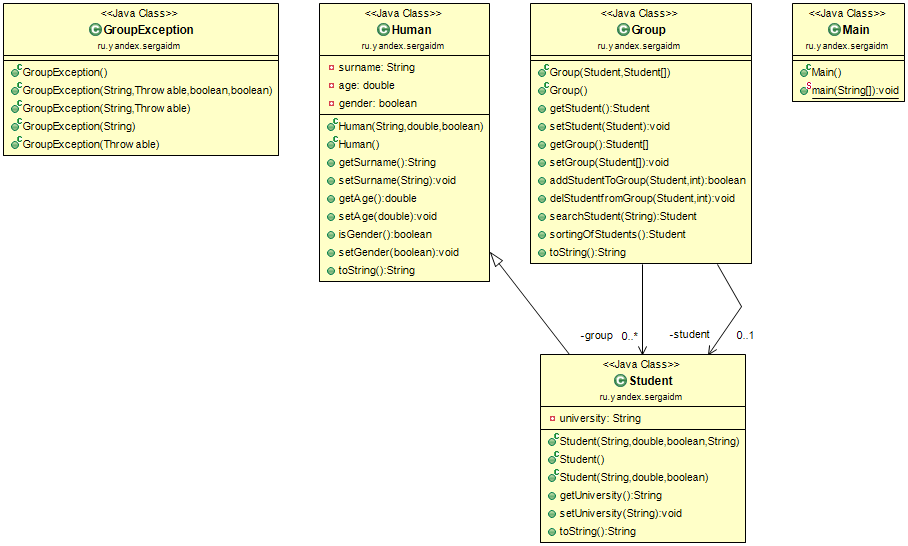
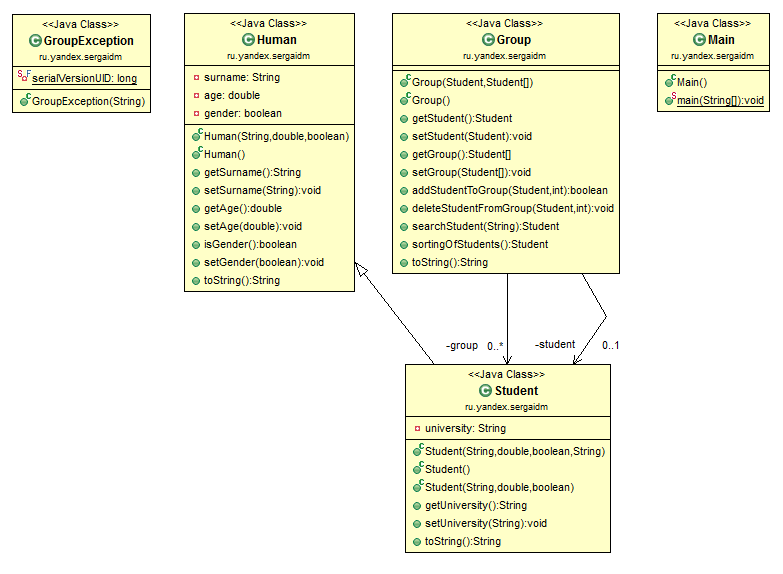
3. Exceptions. Classes "Human", "Student" and "Group"

diff --git a/Program3/src/ru/yandex/sergaidm/Group.java b/Program3/src/ru/yandex/sergaidm/Group.java
@@ -34,36 +34,33 @@ public class Group {
 	}
 
 	public boolean addStudentToGroup(Student student, int place) throws GroupException {
-		boolean r = false;
+		boolean result = false;
 		for (Student anotherStudent : group) {
 			if (place > group.length) {
 				throw new GroupException("In group there are no more free places");
 			} else if (group[place] == null) {
 				group[place] = student;
 				System.out.println("The student is added to " + (place + 1) + " place of the group");
-				return r = true;
+				return result = true;
 			}
 			if (group[place] != null) {
 				System.out.println("Impossible to add student to " + (place + 1) + " place of the group");
 				throw new GroupException("This place of group is taken by another student");
 			}
 		}
-		return r;
+		return result;
 	}
 
-	public void delStudentfromGroup(Student student, int place) throws GroupException {
-
+	public void deleteStudentFromGroup(Student student, int place) throws GroupException {
 		if (place >= 0 & place < group.length) {
 			group[place] = null;
 			System.out.println("The " + (place + 1) + " student is expelled from the group");
 		} else {
 			throw new GroupException("There is no such student in the group");
 		}
-
 	}
 
 	public Student searchStudent(String surname) {
-
 		for (Student student : group) {
 			if (student != null && student.getSurname().equals(surname)) {
 				return student;
@@ -73,19 +70,18 @@ public class Group {
 	}
 
 	public Student sortingOfStudents() {
-
-		Student st = new Student();
+		Student student = new Student();
 		for (int i = 1; i < group.length; i++) {
 			for (int j = group.length - 1; j >= i; j--) {
 				if (group[j - 1] != null && group[j] != null
 						&& group[j - 1].getSurname().compareTo((group[j].getSurname())) > 0) {
-					st = group[j - 1];
+					student = group[j - 1];
 					group[j - 1] = group[j];
-					group[j] = st;
+					group[j] = student;
 				}
 			}
 		}
-		return st;
+		return student;
 	}
 
 	@Override

diff --git a/Program3/src/ru/yandex/sergaidm/Main.java b/Program3/src/ru/yandex/sergaidm/Main.java
@@ -1,12 +1,5 @@
 package ru.yandex.sergaidm;
 
-/*Create a class Human. Create a class Student that extends class Human.
- Create a class Group that contains an array of 10 objects of class Student.
- Create methods for adding, deleting, and searching students by surname.
- If you try to add the eleventh student you must create custom exception class 
- and process it. Determine toString() method for Group class so that it displays 
- a list of students alphabetically.*/
-
 public class Main {
 	public static void main(String[] args) {
 
@@ -51,7 +44,7 @@ public class Main {
 		System.out.println();
 
 		try {
-			gr.delStudentfromGroup(student, 5);
+			gr.deleteStudentFromGroup(student, 5);
 		} catch (GroupException e) {
 			System.out.println(e);
 		}

diff --git a/Program3/src/ru/yandex/sergaidm/GroupException.java b/Program3/src/ru/yandex/sergaidm/GroupException.java
@@ -2,24 +2,10 @@ package ru.yandex.sergaidm;
 
 public class GroupException extends Exception {
 
-	public GroupException() {
-		super();
-	}
+	private static final long serialVersionUID = 1L;
 
-	public GroupException(String message, Throwable cause, boolean enableSuppression, boolean writableStackTrace) {
-		super(message, cause, enableSuppression, writableStackTrace);
-	}
-
-	public GroupException(String message, Throwable cause) {
-		super(message, cause);
-	}
-
-	public GroupException(String message) {
-		super(message);
-	}
-
-	public GroupException(Throwable cause) {
-		super(cause);
+	public GroupException(String text) {
+		super(text);
 	}
 	
 }
